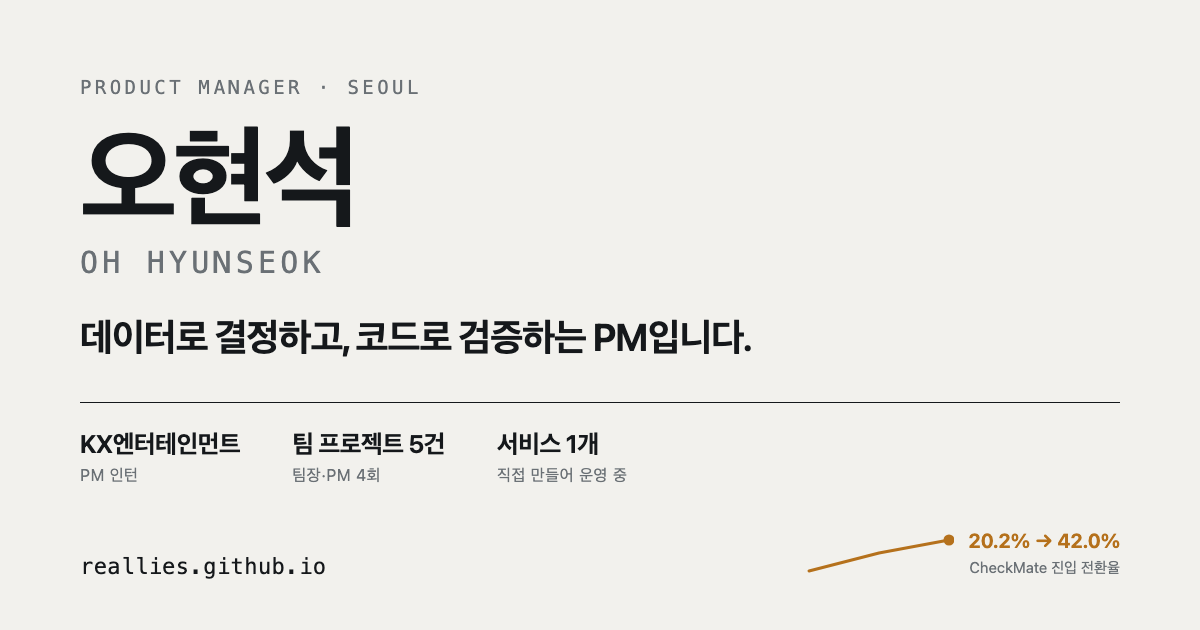
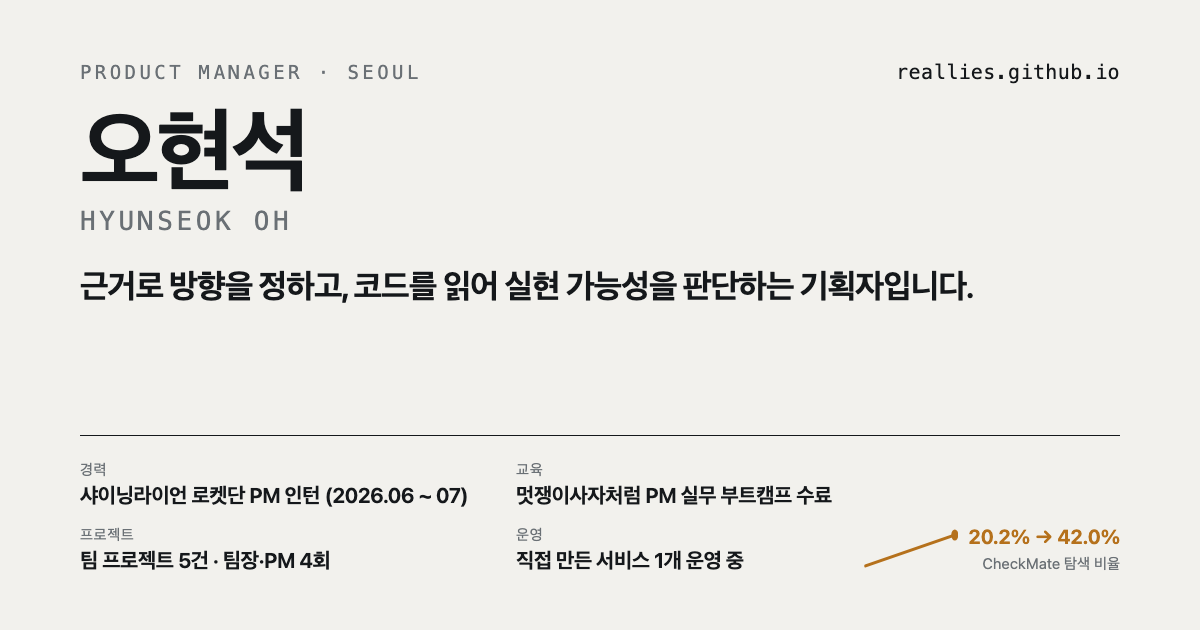
링크 미리보기 카드(og.png) 자동 생성 — profile.json·CheckMate result에서 채워 빌드마다 다시 찍는다 · og:image에 내용 해시(?v=)로 메신저 캐시 무효화

diff --git a/scripts/og-template.html b/scripts/og-template.html
@@ -9,7 +9,7 @@
     background: #F2F1ED;
     color: #15181B;
     font-family: -apple-system, BlinkMacSystemFont, "Apple SD Gothic Neo", "Noto Sans KR", sans-serif;
-    padding: 76px 80px 64px;
+    padding: 60px 80px 56px;
     display: flex; flex-direction: column; justify-content: space-between;
     position: relative; overflow: hidden;
   }
@@ -17,54 +17,42 @@
 
   .eyebrow { font-size: 19px; letter-spacing: 0.18em; color: #6A7075; }
 
-  h1 { font-size: 112px; line-height: 0.94; letter-spacing: -0.045em; font-weight: 680; margin-top: 26px; }
-  .latin { font-size: 30px; letter-spacing: 0.14em; color: #6A7075; font-weight: 500; margin-top: 16px; }
-
-  .thesis { font-size: 38px; font-weight: 640; letter-spacing: -0.025em; margin-top: 34px; }
-
-  .rule { height: 1px; background: #15181B; margin-top: 40px; }
-
-  .facts { display: flex; gap: 52px; margin-top: 26px; }
-  .fact .v { font-size: 25px; font-weight: 640; letter-spacing: -0.015em; }
-  .fact .k { font-size: 16px; color: #6A7075; margin-top: 5px; letter-spacing: 0.04em; }
-
-  .foot { display: flex; align-items: flex-end; justify-content: space-between; }
-  .url { font-size: 22px; color: #15181B; letter-spacing: 0.02em; }
-
-  /* 우측 하단의 전환율 스파크 — 유일한 장식이자 실제 데이터 */
-  .spark { display: flex; align-items: flex-end; gap: 14px; }
+  h1 { font-size: 92px; line-height: 0.94; letter-spacing: -0.045em; font-weight: 680; margin-top: 22px; }
+  .latin { font-size: 26px; letter-spacing: 0.14em; color: #6A7075; font-weight: 500; margin-top: 14px; }
+  .thesis { font-size: 33px; line-height: 1.32; font-weight: 640; letter-spacing: -0.025em; margin-top: 28px; max-width: 1000px; word-break: keep-all; }
+  .rule { height: 1px; background: #15181B; }
+  .top { display: flex; justify-content: space-between; align-items: baseline; }
+  .url { font-size: 20px; color: #15181B; letter-spacing: 0.02em; }
+  .bottom { display: flex; justify-content: space-between; align-items: flex-end; margin-top: 24px; }
+  .facts { display: grid; grid-template-columns: auto auto; gap: 16px 48px; flex: none; }
+  .fact .k { font-size: 15px; color: #6A7075; letter-spacing: 0.04em; }
+  .fact .v { white-space: nowrap; font-size: 21px; font-weight: 640; letter-spacing: -0.015em; margin-top: 3px; }
+  /* 우측 하단의 지표 스파크 — 유일한 장식이자 실제 데이터 */
+  .spark { display: flex; align-items: flex-end; gap: 10px; flex: none; }
   .spark .cap { font-size: 15px; color: #6A7075; text-align: right; line-height: 1.5; }
-  .spark .cap b { display: block; font-size: 20px; color: #B5711C; font-weight: 680; }
+  .spark .cap b { white-space: nowrap; display: block; font-size: 20px; color: #B5711C; font-weight: 680; }
 </style>
 </head>
 <body>
-
+  <!-- scripts/og.mjs 가 {{…}} 를 src/data/profile.json · checkmate.md 에서 채운다. 직접 문구를 쓰지 않는다 -->
   <div>
-    <div class="eyebrow mono">PRODUCT MANAGER · SEOUL</div>
-    <h1>오현석</h1>
-    <div class="latin mono">OH HYUNSEOK</div>
-    <div class="thesis">데이터로 결정하고, 코드로 검증하는 PM입니다.</div>
+    <div class="top"><div class="eyebrow mono">{{eyebrow}}</div><div class="url mono">{{url}}</div></div>
+    <h1>{{name}}</h1>
+    <div class="latin mono">{{latin}}</div>
+    <div class="thesis">{{thesis}}</div>
   </div>
-
   <div>
     <div class="rule"></div>
-    <div class="facts">
-      <div class="fact"><div class="v">KX엔터테인먼트</div><div class="k">PM 인턴</div></div>
-      <div class="fact"><div class="v">팀 프로젝트 5건</div><div class="k">팀장·PM 4회</div></div>
-      <div class="fact"><div class="v">서비스 1개</div><div class="k">직접 만들어 운영 중</div></div>
-    </div>
-
-    <div class="foot" style="margin-top: 40px">
-      <div class="url mono">reallies.github.io</div>
+    <div class="bottom">
+      <div class="facts">{{facts}}</div>
       <div class="spark">
-        <svg width="150" height="46" viewBox="0 0 150 46" aria-hidden="true">
-          <polyline points="5,38 75,20 145,7" fill="none" stroke="#B5711C" stroke-width="3" stroke-linecap="round" stroke-linejoin="round"/>
+        <svg width="96" height="46" preserveAspectRatio="none" viewBox="0 0 150 46" aria-hidden="true">
+          <polyline points="5,38 145,7" fill="none" stroke="#B5711C" stroke-width="3" stroke-linecap="round" stroke-linejoin="round"/>
           <circle cx="145" cy="7" r="5.5" fill="#B5711C"/>
         </svg>
-        <div class="cap"><b>20.2% → 42.0%</b>CheckMate 진입 전환율</div>
+        <div class="cap"><b>{{spark}}</b>{{sparkLabel}}</div>
       </div>
     </div>
   </div>
-
 </body>
 </html>
